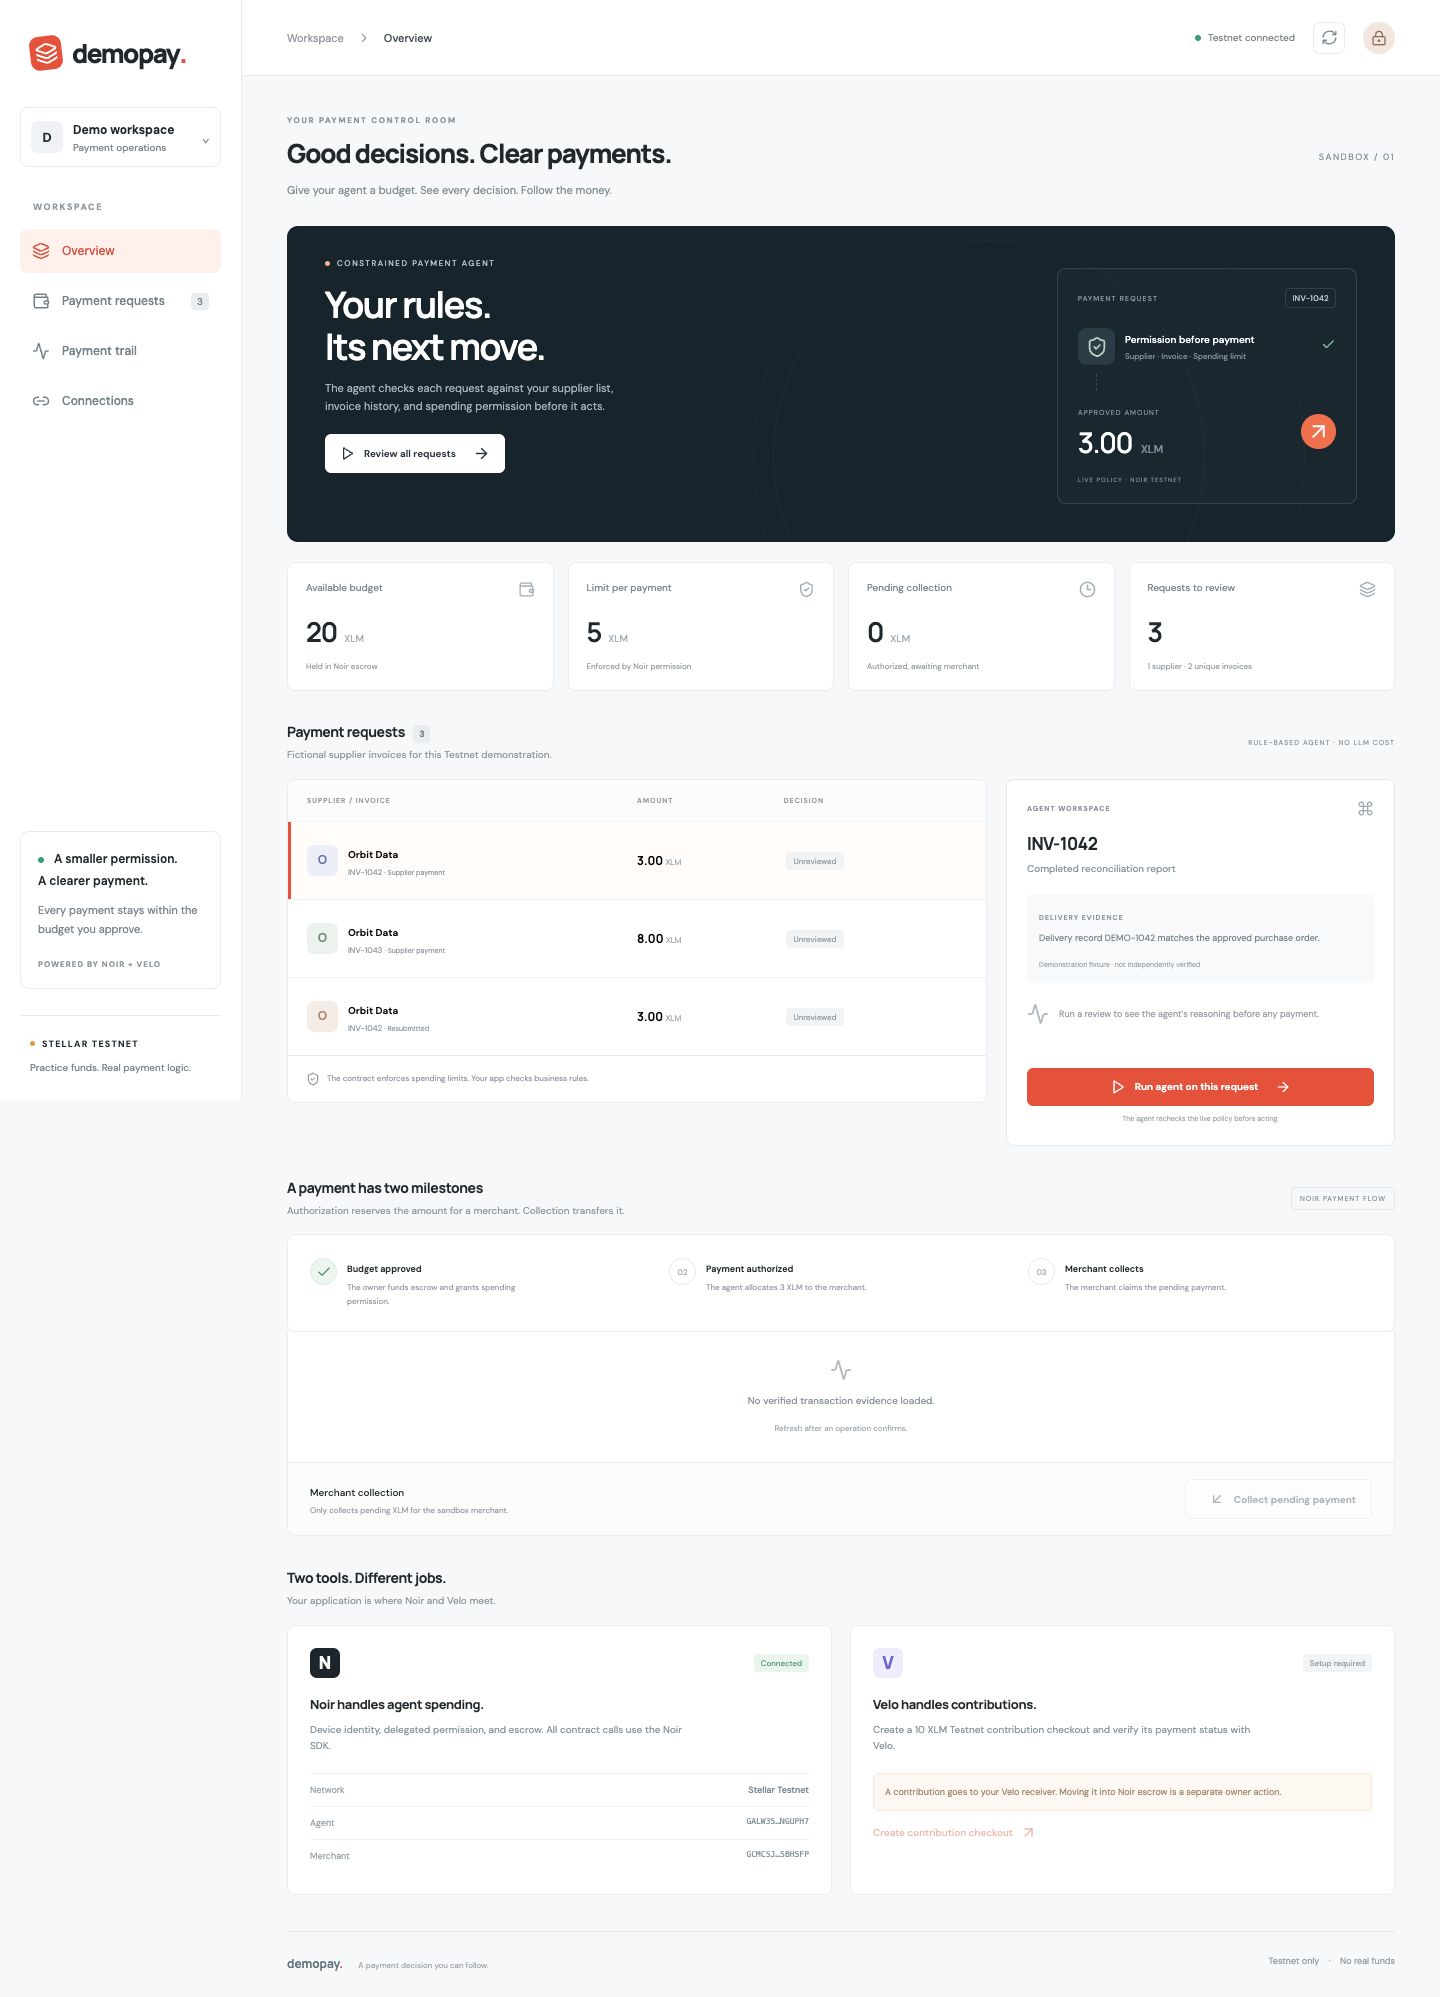
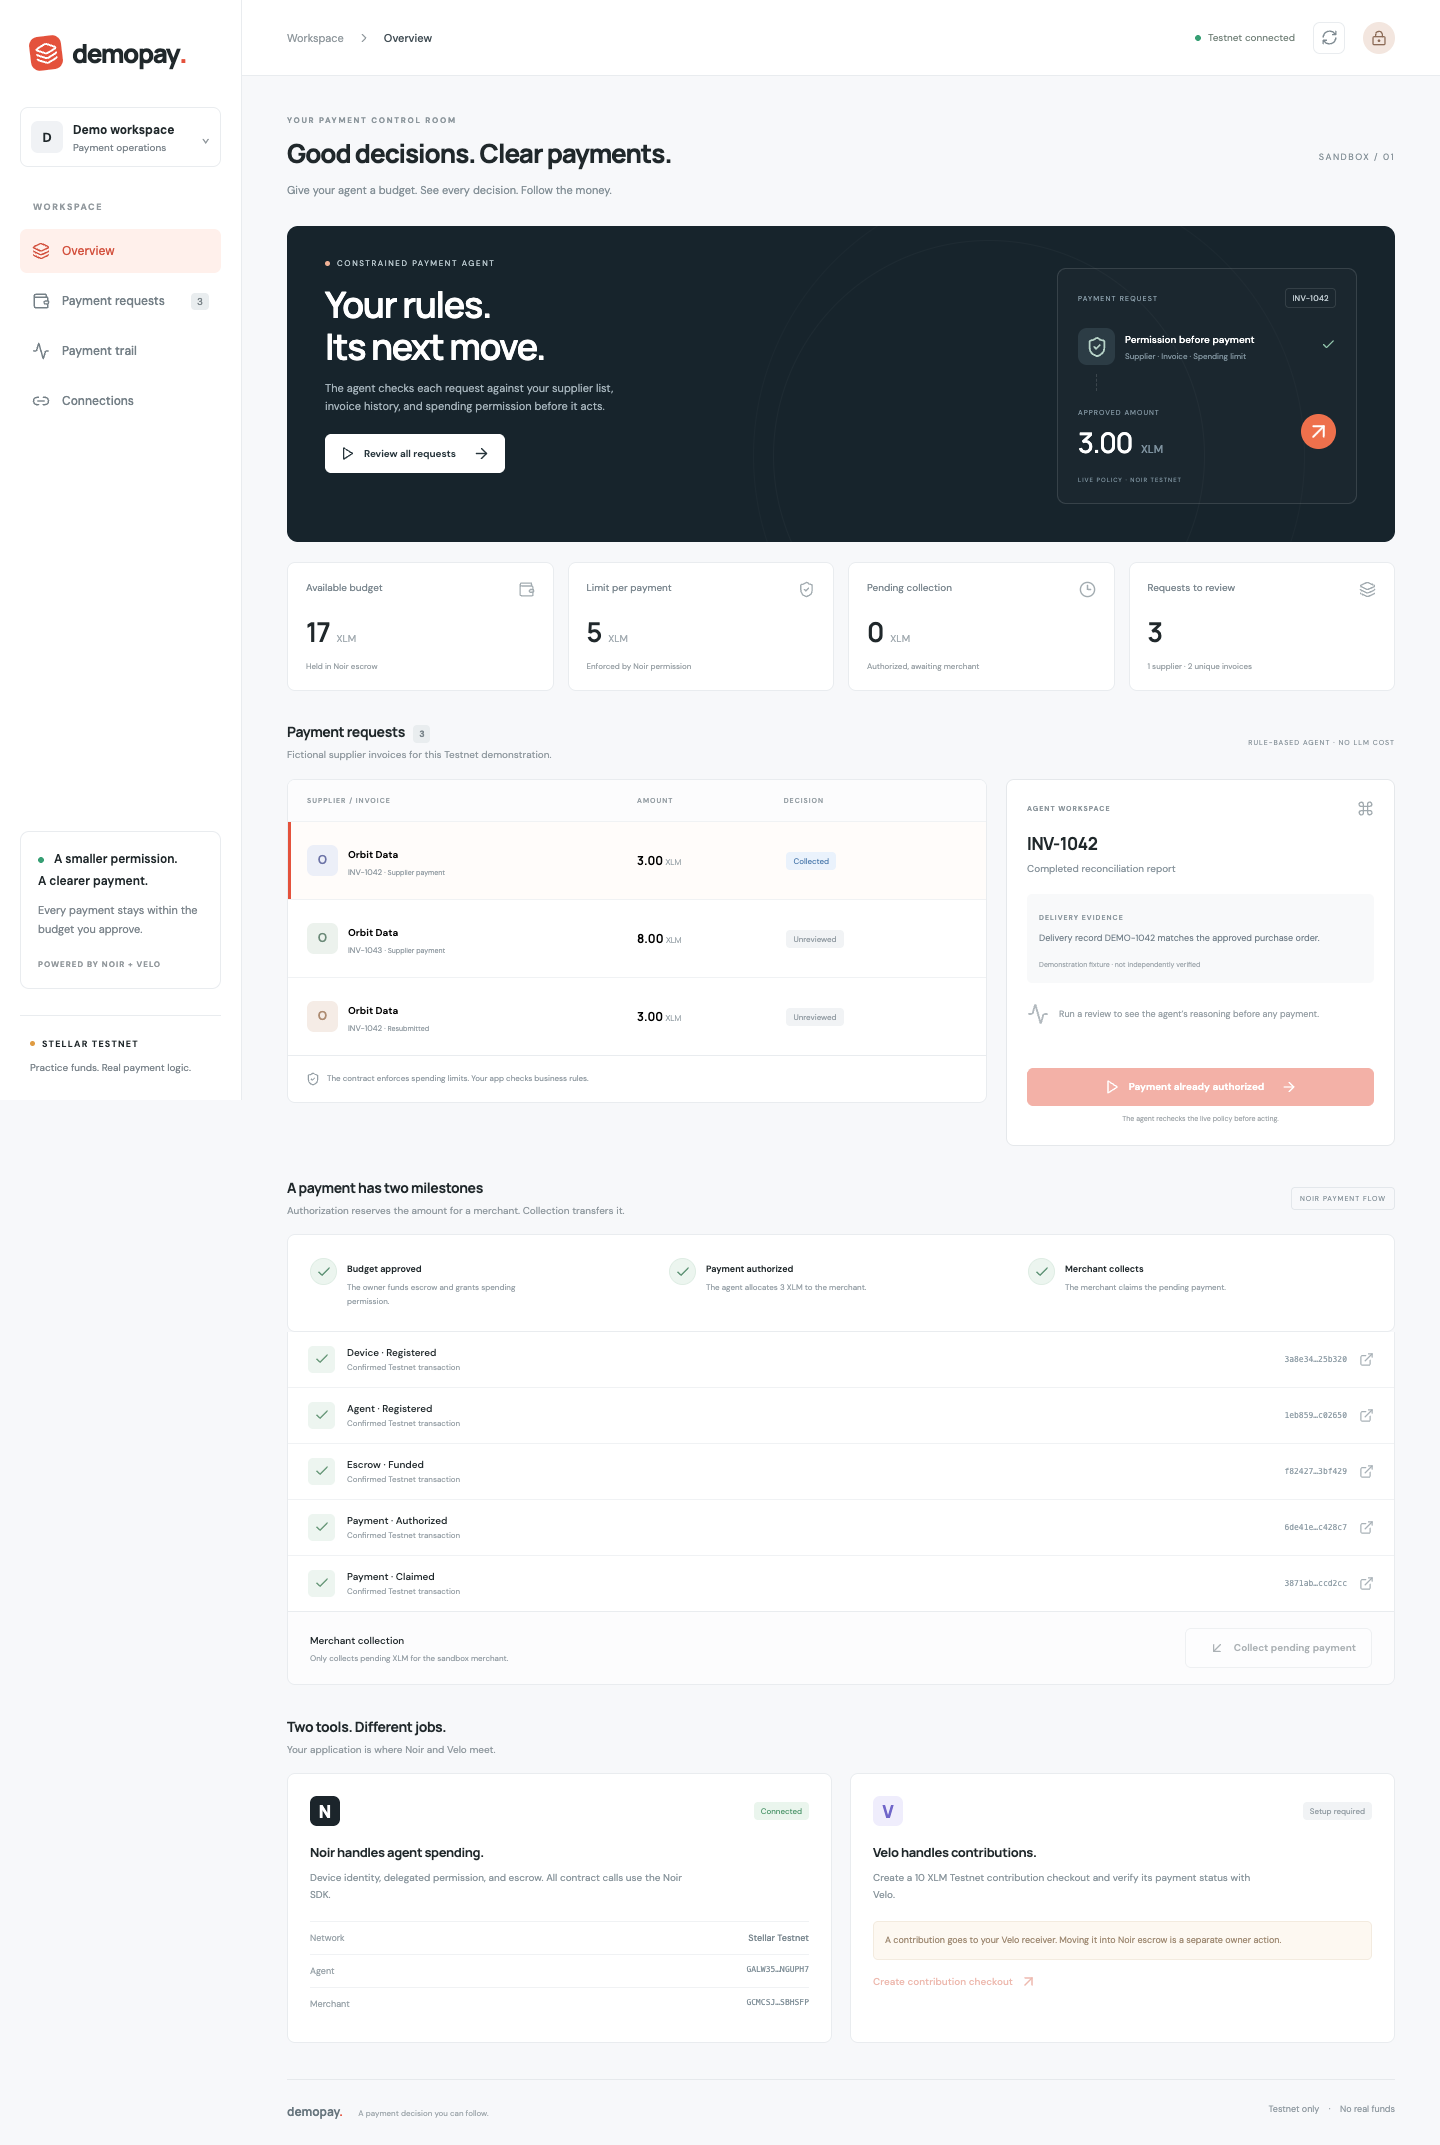
Record confirmed Testnet receipts and document SDK compatibility

diff --git a/README.md b/README.md
@@ -53,11 +53,12 @@ Secrets are server-side only. No app endpoint accepts an arbitrary signing paylo
 
 - SDK: **`@noirx402/agent-sdk` 0.3.0**, pinned in [packages/agent/package.json](packages/agent/package.json).
 - Contracts: `device_registry`, `agent_registry`, `payment_escrow`, pinned to the exact addresses in the supplied Builder Handbook; see [packages/shared/src/index.ts](packages/shared/src/index.ts).
-- Payment policy, preflight, authorization, collection and event queries: [packages/agent/src/index.ts](packages/agent/src/index.ts).
-- Owner initialization uses `execute` with `registerDevice`, `registerAgent` and `fundEscrow`: [scripts/setup-testnet.ts](scripts/setup-testnet.ts).
+- Live policy reads and decision context: [packages/agent/src/index.ts](packages/agent/src/index.ts#L134). Payment preflight and authorization: [agent execution](packages/agent/src/index.ts#L189). Merchant collection: [claim](packages/agent/src/index.ts#L214).
+- Owner initialization uses `execute` with `registerDevice`, `registerAgent` and `fundEscrow`: [scripts/setup-testnet.ts](scripts/setup-testnet.ts#L69).
 - Exact-amount business rules: [packages/agent/src/decide.ts](packages/agent/src/decide.ts).
 - No Noir contracts are redeployed, and no contract invocation is manually encoded outside the SDK. The Stellar SDK is used for key generation and the native XLM token ID.
 - The software UID is generated locally and hashed. NFC hardware is not required by the handbook.
+- RPC v30 removed a legacy success flag still expected by Noir 0.3.0. [The compatibility adapter](packages/agent/src/events.ts) supplies the flag for contract events to Noir's own decoder; [paymentProofs](packages/agent/src/index.ts#L55) independently checks each relevant transaction's successful receipt before treating it as evidence. No Noir contract call bypasses the SDK.
 
 ## Velo integration
 
@@ -65,8 +66,8 @@ Secrets are server-side only. No app endpoint accepts an arbitrary signing paylo
 - `checkout.sessions.create` creates a separate Testnet budget-contribution session.
 - `paymentIntents.retrieve` checks the canonical contribution status; a success-page redirect never counts as payment proof.
 - `Velo.webhooks.verify` verifies the raw body and signature. Duplicate deliveries have no money-moving effect because this receiver only acknowledges verified notifications; status is read from Velo.
-- SDK calls: [apps/server/src/velo.ts](apps/server/src/velo.ts).
-- HTTP handlers: [apps/server/src/app.ts](apps/server/src/app.ts).
+- Checkout SDK call: [apps/server/src/velo.ts](apps/server/src/velo.ts#L17). Signature verification: [webhooks.verify](apps/server/src/velo.ts#L29).
+- Canonical status retrieval: [apps/server/src/app.ts](apps/server/src/app.ts#L143).
 - Live checkout needs a valid project Testnet API key, configured receiver and Velo Pay activation. Missing credentials disable checkout rather than fabricate a payment. Live Velo qualification is recorded in [docs/verification.md](docs/verification.md).
 
 ## Testnet proof

diff --git a/docs/deploy-vercel.md b/docs/deploy-vercel.md
@@ -1,0 +1,16 @@
+# Publish on your free Vercel account
+
+No paid plan or real cryptocurrency is needed for this Testnet sandbox. Vercel usage remains subject to your account's free-plan limits; do not enable paid upgrades.
+
+1. Import the public repository https://github.com/Kreipri/demopay-agent into Vercel.
+2. Keep the project root at the repository root. The committed vercel.json specifies the build command and web output directory; do not change the root to apps/web, which would exclude the API and shared packages.
+3. Use Node 24.x with a patched version meeting the Noir SDK's minimum.
+4. Add each key from your local .env to Vercel's private environment settings, using the exact values generated for your dedicated Testnet sandbox. Do not paste the file into chat or GitHub. Set APP_URL to the public production origin.
+5. Add the Velo project Testnet API key as VELO_API_KEY. Configure Velo's receiving wallet and activate Velo Pay with Testnet XLM if the dashboard requires it.
+6. Deploy. Verify /api/health returns the Testnet health response, then check the dashboard's live 17 XLM escrow balance and transaction trail.
+7. Create a Velo contribution checkout as the operator. Complete it with Testnet funds. Use Verify status and confirm the Velo API returns paid; the return URL alone is insufficient.
+8. Configure https://YOUR_SITE/api/webhooks/velo in Velo, save its signing secret privately as VELO_WEBHOOK_SECRET in Vercel, and redeploy. Send a signed test notification and check that a forged request is rejected.
+9. Open the production website in a logged-out browser. If Vercel deployment protection requires login, disable protection for the production deployment so judges can access it.
+10. Put the verified public URL, demo video, pitch deck, registered name and Discord handle in README.
+
+The already-paid fixture cannot be paid twice. For a fresh recorded demonstration, initialize a new software device with a new DEVICE_HASH and SETUP_LEDGER, using the setup script; preserve the existing public proof. Never change the invoice nonce just to bypass replay protection.

diff --git a/docs/verification.md b/docs/verification.md
@@ -6,7 +6,14 @@
 - The agent authorized 3 XLM and the merchant collected it. See testnet-proof.json.
 - Browser checks cover navigation, three contract explorer links, operator modal, desktop/mobile overflow and uncaught browser errors.
 - Live Velo checkout/status/webhook delivery awaits private project credentials. A missing key is not counted as a completed Velo integration.
-- GitHub publication and Vercel deployment status will be updated after publication.
+- Public repository: https://github.com/Kreipri/demopay-agent
+- Initial GitHub CI passed: https://github.com/Kreipri/demopay-agent/actions/runs/42306371335
+- Nine automated checks passed, including Velo signature tampering/staleness rejection and the RPC v30 event-decoding regression. Desktop/mobile browser checks passed after the evidence fix.
+- Vercel deployment is pending the owner's CLI authorization. No production URL is claimed yet.
+
+## Event decoder compatibility
+
+The live RPC omits `inSuccessfulContractCall`, which Noir SDK 0.3.0 still requires. The application normalizes contract events before passing them to the SDK's decoder and independently verifies each relevant transaction receipt. See packages/agent/src/events.ts. Upstream removal: https://github.com/stellar/stellar-rpc/releases/tag/v30.0.0
 
 ## Bounded demo behavior
 
